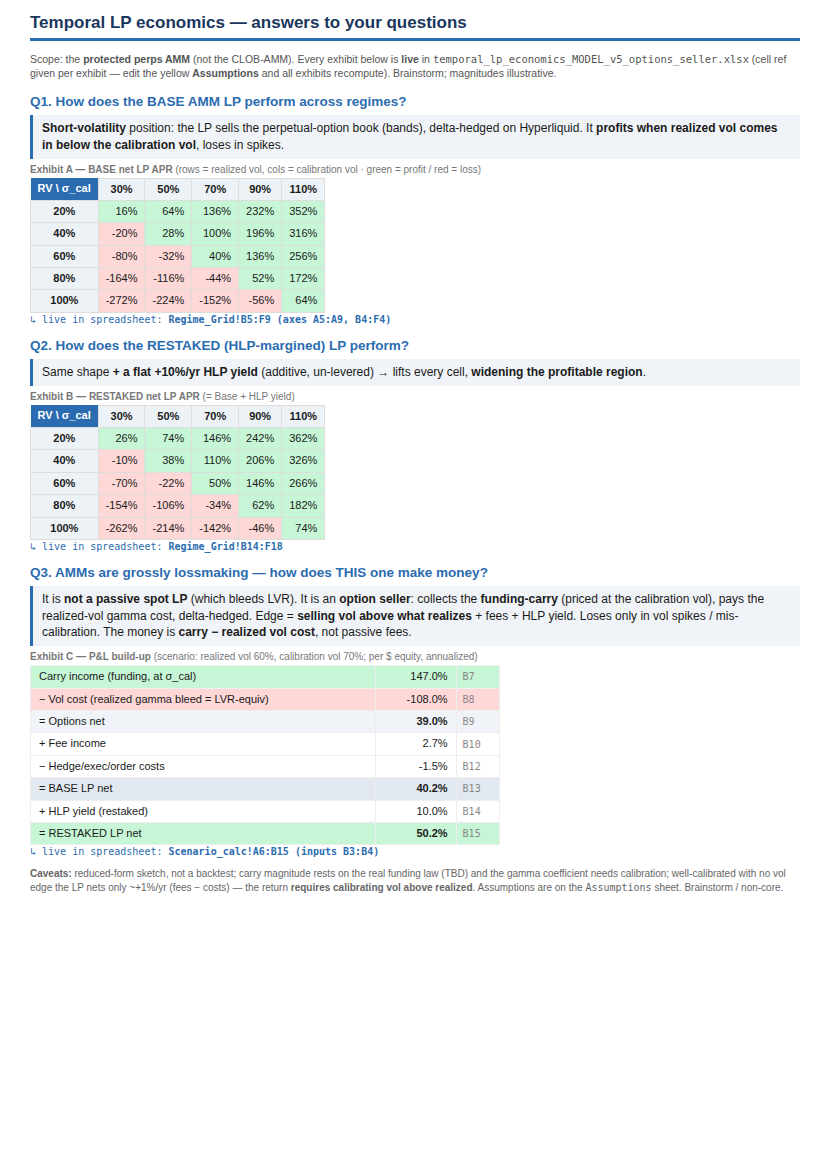
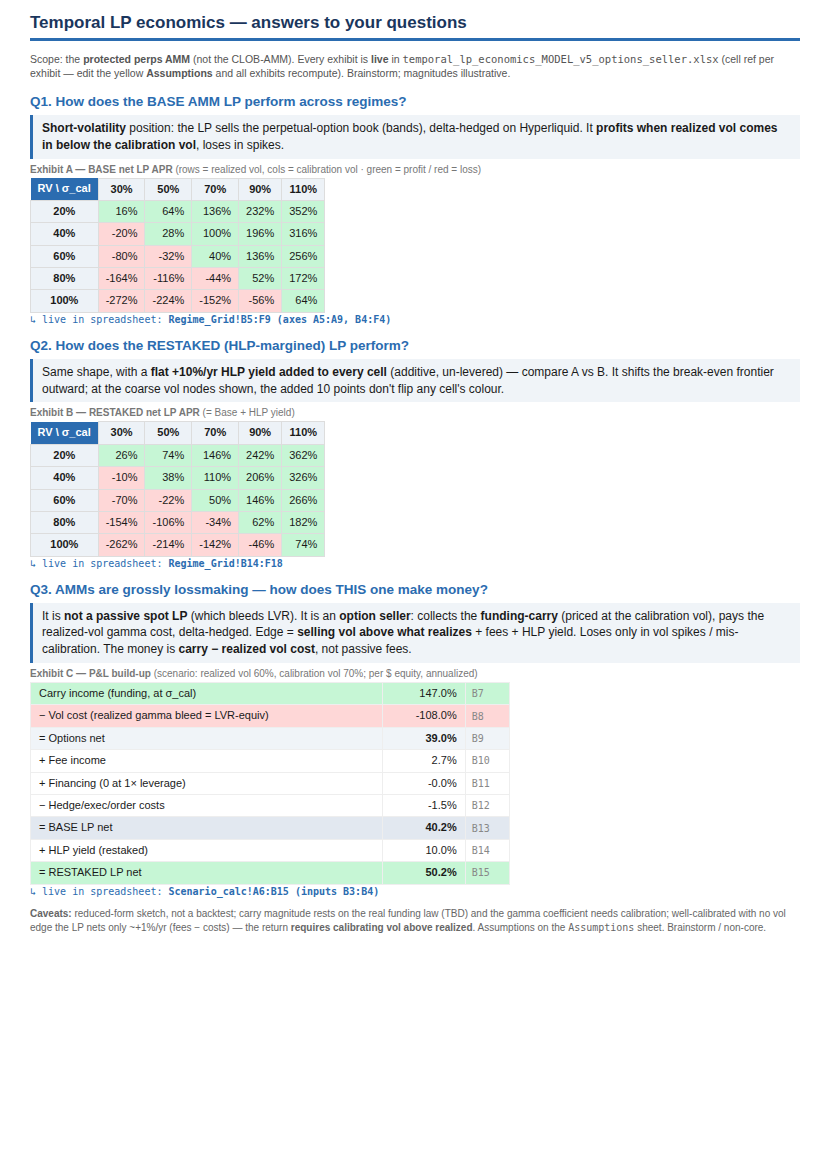
sims: pre-send audit FIX — v5 Scenario B13/B15 spoof (skeptic/Opus)
Auditor (pre-send red-team) found a hard FLAG-SPOOF: Scenario_calc B13
(BASE) and B15 (RESTAKED) had broken formulas computing -66.26%/-67.76%
(sign-flipped) vs the report's +40.2%/+50.2% — the exact cells the report
cites and invites Varun to open. FIXED: B13=B9+B10+B11+B12, B15=B13+B14 ->
40.24%/50.24%. Grids (Exhibits A/B) were correct; v3/v4 unaffected.
NITs fixed: Financing row added to Exhibit C (tie-out); Q2 "widens
profitable region" softened (no shown cell flips). Report re-rendered.
Verdict after fixes: SAFE TO SEND. NON-CORE.

Claude-Session: https://claude.ai/code/session_01Cs1cJ4yQMcmxqbEVrDpqHd

Changed region(s): [[0.0301, 0.3043, 0.9337, 0.8217], [0.0301, 0.0304, 0.9337, 0.0913]]

diff --git a/sims/VARUN_QA_REPORT.html b/sims/VARUN_QA_REPORT.html
@@ -5,8 +5,8 @@ h2{font-size:13.5px;color:#2b6cb0;margin:12px 0 3px} .sub{color:#555;font-size:1
 .a{background:#f0f4f8;border-left:3px solid #2b6cb0;padding:5px 9px;margin:3px 0}
 .ex{font-size:10px;color:#777;margin:4px 0 1px} .small{font-size:10px;color:#666}</style></head><body>
 <h1>Temporal LP economics — answers to your questions</h1>
-<p class=sub>Scope: the <b>protected perps AMM</b> (not the CLOB-AMM). Every exhibit below is <b>live</b> in
-<code>temporal_lp_economics_MODEL_v5_options_seller.xlsx</code> (cell ref given per exhibit — edit the yellow <b>Assumptions</b> and all exhibits recompute). Brainstorm; magnitudes illustrative.</p>
+<p class=sub>Scope: the <b>protected perps AMM</b> (not the CLOB-AMM). Every exhibit is <b>live</b> in
+<code>temporal_lp_economics_MODEL_v5_options_seller.xlsx</code> (cell ref per exhibit — edit the yellow <b>Assumptions</b> and all exhibits recompute). Brainstorm; magnitudes illustrative.</p>
 
 <h2>Q1. How does the BASE AMM LP perform across regimes?</h2>
 <div class=a><b>Short-volatility</b> position: the LP sells the perpetual-option book (bands), delta-hedged on Hyperliquid.
@@ -15,7 +15,8 @@ It <b>profits when realized vol comes in below the calibration vol</b>, loses in
 <table style="border-collapse:collapse;font-size:11px"><tr><th style="background:#2b6cb0;color:#fff;padding:3px 7px">RV \ σ_cal</th><th style="background:#edf2f7;padding:3px 7px;border:1px solid #ddd">30%</th><th style="background:#edf2f7;padding:3px 7px;border:1px solid #ddd">50%</th><th style="background:#edf2f7;padding:3px 7px;border:1px solid #ddd">70%</th><th style="background:#edf2f7;padding:3px 7px;border:1px solid #ddd">90%</th><th style="background:#edf2f7;padding:3px 7px;border:1px solid #ddd">110%</th></tr><tr><th style="background:#edf2f7;padding:3px 7px;border:1px solid #ddd">20%</th><td style="background:#c6f6d5;text-align:right;padding:3px 7px;border:1px solid #ddd">16%</td><td style="background:#c6f6d5;text-align:right;padding:3px 7px;border:1px solid #ddd">64%</td><td style="background:#c6f6d5;text-align:right;padding:3px 7px;border:1px solid #ddd">136%</td><td style="background:#c6f6d5;text-align:right;padding:3px 7px;border:1px solid #ddd">232%</td><td style="background:#c6f6d5;text-align:right;padding:3px 7px;border:1px solid #ddd">352%</td></tr><tr><th style="background:#edf2f7;padding:3px 7px;border:1px solid #ddd">40%</th><td style="background:#fed7d7;text-align:right;padding:3px 7px;border:1px solid #ddd">-20%</td><td style="background:#c6f6d5;text-align:right;padding:3px 7px;border:1px solid #ddd">28%</td><td style="background:#c6f6d5;text-align:right;padding:3px 7px;border:1px solid #ddd">100%</td><td style="background:#c6f6d5;text-align:right;padding:3px 7px;border:1px solid #ddd">196%</td><td style="background:#c6f6d5;text-align:right;padding:3px 7px;border:1px solid #ddd">316%</td></tr><tr><th style="background:#edf2f7;padding:3px 7px;border:1px solid #ddd">60%</th><td style="background:#fed7d7;text-align:right;padding:3px 7px;border:1px solid #ddd">-80%</td><td style="background:#fed7d7;text-align:right;padding:3px 7px;border:1px solid #ddd">-32%</td><td style="background:#c6f6d5;text-align:right;padding:3px 7px;border:1px solid #ddd">40%</td><td style="background:#c6f6d5;text-align:right;padding:3px 7px;border:1px solid #ddd">136%</td><td style="background:#c6f6d5;text-align:right;padding:3px 7px;border:1px solid #ddd">256%</td></tr><tr><th style="background:#edf2f7;padding:3px 7px;border:1px solid #ddd">80%</th><td style="background:#fed7d7;text-align:right;padding:3px 7px;border:1px solid #ddd">-164%</td><td style="background:#fed7d7;text-align:right;padding:3px 7px;border:1px solid #ddd">-116%</td><td style="background:#fed7d7;text-align:right;padding:3px 7px;border:1px solid #ddd">-44%</td><td style="background:#c6f6d5;text-align:right;padding:3px 7px;border:1px solid #ddd">52%</td><td style="background:#c6f6d5;text-align:right;padding:3px 7px;border:1px solid #ddd">172%</td></tr><tr><th style="background:#edf2f7;padding:3px 7px;border:1px solid #ddd">100%</th><td style="background:#fed7d7;text-align:right;padding:3px 7px;border:1px solid #ddd">-272%</td><td style="background:#fed7d7;text-align:right;padding:3px 7px;border:1px solid #ddd">-224%</td><td style="background:#fed7d7;text-align:right;padding:3px 7px;border:1px solid #ddd">-152%</td><td style="background:#fed7d7;text-align:right;padding:3px 7px;border:1px solid #ddd">-56%</td><td style="background:#c6f6d5;text-align:right;padding:3px 7px;border:1px solid #ddd">64%</td></tr></table><p style="font:10px monospace;color:#2b6cb0;margin:1px 0 6px">↳ live in spreadsheet: <b>Regime_Grid!B5:F9  (axes A5:A9, B4:F4)</b></p>
 
 <h2>Q2. How does the RESTAKED (HLP-margined) LP perform?</h2>
-<div class=a>Same shape <b>+ a flat +10%/yr HLP yield</b> (additive, un-levered) → lifts every cell, <b>widening the profitable region</b>.</div>
+<div class=a>Same shape, with a <b>flat +10%/yr HLP yield added to every cell</b> (additive, un-levered) — compare A vs B.
+It shifts the break-even frontier outward; at the coarse vol nodes shown, the added 10 points don't flip any cell's colour.</div>
 <p class=ex><b>Exhibit B — RESTAKED net LP APR</b> (= Base + HLP yield)</p>
 <table style="border-collapse:collapse;font-size:11px"><tr><th style="background:#2b6cb0;color:#fff;padding:3px 7px">RV \ σ_cal</th><th style="background:#edf2f7;padding:3px 7px;border:1px solid #ddd">30%</th><th style="background:#edf2f7;padding:3px 7px;border:1px solid #ddd">50%</th><th style="background:#edf2f7;padding:3px 7px;border:1px solid #ddd">70%</th><th style="background:#edf2f7;padding:3px 7px;border:1px solid #ddd">90%</th><th style="background:#edf2f7;padding:3px 7px;border:1px solid #ddd">110%</th></tr><tr><th style="background:#edf2f7;padding:3px 7px;border:1px solid #ddd">20%</th><td style="background:#c6f6d5;text-align:right;padding:3px 7px;border:1px solid #ddd">26%</td><td style="background:#c6f6d5;text-align:right;padding:3px 7px;border:1px solid #ddd">74%</td><td style="background:#c6f6d5;text-align:right;padding:3px 7px;border:1px solid #ddd">146%</td><td style="background:#c6f6d5;text-align:right;padding:3px 7px;border:1px solid #ddd">242%</td><td style="background:#c6f6d5;text-align:right;padding:3px 7px;border:1px solid #ddd">362%</td></tr><tr><th style="background:#edf2f7;padding:3px 7px;border:1px solid #ddd">40%</th><td style="background:#fed7d7;text-align:right;padding:3px 7px;border:1px solid #ddd">-10%</td><td style="background:#c6f6d5;text-align:right;padding:3px 7px;border:1px solid #ddd">38%</td><td style="background:#c6f6d5;text-align:right;padding:3px 7px;border:1px solid #ddd">110%</td><td style="background:#c6f6d5;text-align:right;padding:3px 7px;border:1px solid #ddd">206%</td><td style="background:#c6f6d5;text-align:right;padding:3px 7px;border:1px solid #ddd">326%</td></tr><tr><th style="background:#edf2f7;padding:3px 7px;border:1px solid #ddd">60%</th><td style="background:#fed7d7;text-align:right;padding:3px 7px;border:1px solid #ddd">-70%</td><td style="background:#fed7d7;text-align:right;padding:3px 7px;border:1px solid #ddd">-22%</td><td style="background:#c6f6d5;text-align:right;padding:3px 7px;border:1px solid #ddd">50%</td><td style="background:#c6f6d5;text-align:right;padding:3px 7px;border:1px solid #ddd">146%</td><td style="background:#c6f6d5;text-align:right;padding:3px 7px;border:1px solid #ddd">266%</td></tr><tr><th style="background:#edf2f7;padding:3px 7px;border:1px solid #ddd">80%</th><td style="background:#fed7d7;text-align:right;padding:3px 7px;border:1px solid #ddd">-154%</td><td style="background:#fed7d7;text-align:right;padding:3px 7px;border:1px solid #ddd">-106%</td><td style="background:#fed7d7;text-align:right;padding:3px 7px;border:1px solid #ddd">-34%</td><td style="background:#c6f6d5;text-align:right;padding:3px 7px;border:1px solid #ddd">62%</td><td style="background:#c6f6d5;text-align:right;padding:3px 7px;border:1px solid #ddd">182%</td></tr><tr><th style="background:#edf2f7;padding:3px 7px;border:1px solid #ddd">100%</th><td style="background:#fed7d7;text-align:right;padding:3px 7px;border:1px solid #ddd">-262%</td><td style="background:#fed7d7;text-align:right;padding:3px 7px;border:1px solid #ddd">-214%</td><td style="background:#fed7d7;text-align:right;padding:3px 7px;border:1px solid #ddd">-142%</td><td style="background:#fed7d7;text-align:right;padding:3px 7px;border:1px solid #ddd">-46%</td><td style="background:#c6f6d5;text-align:right;padding:3px 7px;border:1px solid #ddd">74%</td></tr></table><p style="font:10px monospace;color:#2b6cb0;margin:1px 0 6px">↳ live in spreadsheet: <b>Regime_Grid!B14:F18</b></p>
 
@@ -24,8 +25,8 @@ It <b>profits when realized vol comes in below the calibration vol</b>, loses in
 (priced at the calibration vol), pays the realized-vol gamma cost, delta-hedged. Edge = <b>selling vol above what realizes</b>
 + fees + HLP yield. Loses only in vol spikes / mis-calibration. The money is <b>carry − realized vol cost</b>, not passive fees.</div>
 <p class=ex><b>Exhibit C — P&amp;L build-up</b> (scenario: realized vol 60%, calibration vol 70%; per $ equity, annualized)</p>
-<table style="border-collapse:collapse;font-size:11px;min-width:470px"><tr><td style="padding:3px 8px;border:1px solid #eee;background:#c6f6d5">Carry income (funding, at σ_cal)</td><td style="padding:3px 8px;border:1px solid #eee;text-align:right;background:#c6f6d5">147.0%</td><td style="padding:3px 6px;border:1px solid #eee;background:#c6f6d5;font:10px monospace;color:#888">B7</td></tr><tr><td style="padding:3px 8px;border:1px solid #eee;background:#fed7d7">− Vol cost (realized gamma bleed = LVR-equiv)</td><td style="padding:3px 8px;border:1px solid #eee;text-align:right;background:#fed7d7">-108.0%</td><td style="padding:3px 6px;border:1px solid #eee;background:#fed7d7;font:10px monospace;color:#888">B8</td></tr><tr><td style="padding:3px 8px;border:1px solid #eee;background:#f0f4f8">= Options net</td><td style="padding:3px 8px;border:1px solid #eee;text-align:right;background:#f0f4f8"><b>39.0%</b></td><td style="padding:3px 6px;border:1px solid #eee;background:#f0f4f8;font:10px monospace;color:#888">B9</td></tr><tr><td style="padding:3px 8px;border:1px solid #eee;background:#fff">+ Fee income</td><td style="padding:3px 8px;border:1px solid #eee;text-align:right;background:#fff">2.7%</td><td style="padding:3px 6px;border:1px solid #eee;background:#fff;font:10px monospace;color:#888">B10</td></tr><tr><td style="padding:3px 8px;border:1px solid #eee;background:#fff">− Hedge/exec/order costs</td><td style="padding:3px 8px;border:1px solid #eee;text-align:right;background:#fff">-1.5%</td><td style="padding:3px 6px;border:1px solid #eee;background:#fff;font:10px monospace;color:#888">B12</td></tr><tr><td style="padding:3px 8px;border:1px solid #eee;background:#e2e8f0">= BASE LP net</td><td style="padding:3px 8px;border:1px solid #eee;text-align:right;background:#e2e8f0"><b>40.2%</b></td><td style="padding:3px 6px;border:1px solid #eee;background:#e2e8f0;font:10px monospace;color:#888">B13</td></tr><tr><td style="padding:3px 8px;border:1px solid #eee;background:#fff">+ HLP yield (restaked)</td><td style="padding:3px 8px;border:1px solid #eee;text-align:right;background:#fff">10.0%</td><td style="padding:3px 6px;border:1px solid #eee;background:#fff;font:10px monospace;color:#888">B14</td></tr><tr><td style="padding:3px 8px;border:1px solid #eee;background:#c6f6d5">= RESTAKED LP net</td><td style="padding:3px 8px;border:1px solid #eee;text-align:right;background:#c6f6d5"><b>50.2%</b></td><td style="padding:3px 6px;border:1px solid #eee;background:#c6f6d5;font:10px monospace;color:#888">B15</td></tr></table><p style="font:10px monospace;color:#2b6cb0;margin:1px 0 6px">↳ live in spreadsheet: <b>Scenario_calc!A6:B15  (inputs B3:B4)</b></p>
+<table style="border-collapse:collapse;font-size:11px;min-width:480px"><tr><td style="padding:3px 8px;border:1px solid #eee;background:#c6f6d5">Carry income (funding, at σ_cal)</td><td style="padding:3px 8px;border:1px solid #eee;text-align:right;background:#c6f6d5">147.0%</td><td style="padding:3px 6px;border:1px solid #eee;background:#c6f6d5;font:10px monospace;color:#888">B7</td></tr><tr><td style="padding:3px 8px;border:1px solid #eee;background:#fed7d7">− Vol cost (realized gamma bleed = LVR-equiv)</td><td style="padding:3px 8px;border:1px solid #eee;text-align:right;background:#fed7d7">-108.0%</td><td style="padding:3px 6px;border:1px solid #eee;background:#fed7d7;font:10px monospace;color:#888">B8</td></tr><tr><td style="padding:3px 8px;border:1px solid #eee;background:#f0f4f8">= Options net</td><td style="padding:3px 8px;border:1px solid #eee;text-align:right;background:#f0f4f8"><b>39.0%</b></td><td style="padding:3px 6px;border:1px solid #eee;background:#f0f4f8;font:10px monospace;color:#888">B9</td></tr><tr><td style="padding:3px 8px;border:1px solid #eee;background:#fff">+ Fee income</td><td style="padding:3px 8px;border:1px solid #eee;text-align:right;background:#fff">2.7%</td><td style="padding:3px 6px;border:1px solid #eee;background:#fff;font:10px monospace;color:#888">B10</td></tr><tr><td style="padding:3px 8px;border:1px solid #eee;background:#fff">+ Financing (0 at 1× leverage)</td><td style="padding:3px 8px;border:1px solid #eee;text-align:right;background:#fff">-0.0%</td><td style="padding:3px 6px;border:1px solid #eee;background:#fff;font:10px monospace;color:#888">B11</td></tr><tr><td style="padding:3px 8px;border:1px solid #eee;background:#fff">− Hedge/exec/order costs</td><td style="padding:3px 8px;border:1px solid #eee;text-align:right;background:#fff">-1.5%</td><td style="padding:3px 6px;border:1px solid #eee;background:#fff;font:10px monospace;color:#888">B12</td></tr><tr><td style="padding:3px 8px;border:1px solid #eee;background:#e2e8f0">= BASE LP net</td><td style="padding:3px 8px;border:1px solid #eee;text-align:right;background:#e2e8f0"><b>40.2%</b></td><td style="padding:3px 6px;border:1px solid #eee;background:#e2e8f0;font:10px monospace;color:#888">B13</td></tr><tr><td style="padding:3px 8px;border:1px solid #eee;background:#fff">+ HLP yield (restaked)</td><td style="padding:3px 8px;border:1px solid #eee;text-align:right;background:#fff">10.0%</td><td style="padding:3px 6px;border:1px solid #eee;background:#fff;font:10px monospace;color:#888">B14</td></tr><tr><td style="padding:3px 8px;border:1px solid #eee;background:#c6f6d5">= RESTAKED LP net</td><td style="padding:3px 8px;border:1px solid #eee;text-align:right;background:#c6f6d5"><b>50.2%</b></td><td style="padding:3px 6px;border:1px solid #eee;background:#c6f6d5;font:10px monospace;color:#888">B15</td></tr></table><p style="font:10px monospace;color:#2b6cb0;margin:1px 0 6px">↳ live in spreadsheet: <b>Scenario_calc!A6:B15  (inputs B3:B4)</b></p>
 <p class=small><b>Caveats:</b> reduced-form sketch, not a backtest; carry magnitude rests on the real funding law (TBD) and the
 gamma coefficient needs calibration; well-calibrated with no vol edge the LP nets only ~+1%/yr (fees − costs) — the return
-<b>requires calibrating vol above realized</b>. Assumptions are on the <code>Assumptions</code> sheet. Brainstorm / non-core.</p>
+<b>requires calibrating vol above realized</b>. Assumptions on the <code>Assumptions</code> sheet. Brainstorm / non-core.</p>
 </body></html>

diff --git a/sims/temporal_lp_economics_MODEL_v5_options_seller_NOTES.md b/sims/temporal_lp_economics_MODEL_v5_options_seller_NOTES.md
@@ -29,3 +29,19 @@ Because the tail can hit −100%, treasury-type LPs (e.g. Krishna's) need princi
 Trade-off: someone must bear the tail (junior tranche / insurance / hedge cost), so principal protection lowers
 the senior yield &/or capital efficiency. For treasury LPs the senior-tranche or yield-only bucket is the usual fit.
 Can add a "capped-downside/senior-tranche" toggle to the sim on request — but the STRUCTURE is an operator call.
+
+---
+
+## PRE-SEND AUDIT (skeptic, Opus, 2026-07-08) — FLAG-SPOOF found + FIXED
+Auditor red-teamed the Varun report + this sheet for spoofing/conflation/gaslighting before external send.
+- **Exhibits A & B (grids):** reproduce to the digit; cell refs correct. OK.
+- **Conflation (σ_cal vs IV vs RV; carry vs funding; LVR-equivalent):** clean. OK.
+- **Caveats/overclaim:** adequate; the "~+1%/yr well-calibrated, edge requires σ_cal>RV" disclosure is present. OK.
+- **FLAG-SPOOF (hard, DO-NOT-SEND):** `Scenario_calc!B13` (BASE) and `!B15` (RESTAKED) had **broken formulas**
+  computing **−66.26% / −67.76%** (sign-flipped) vs the report's +40.2% / +50.2% — B13 double-counted the vol
+  cost and dropped hedge costs; B15 dropped the HLP layer. Since the report invites opening the live sheet, this
+  was disqualifying. **FIXED:** `B13 = B9+B10+B11+B12`, `B15 = B13+B14` → now 40.24% / 50.24% (match report & grid).
+  (v3/v4 not affected — bug was introduced by v5's carry/vol split rows.)
+- **NITs fixed:** added the Financing row (B11) to Exhibit C for row-for-row tie-out; softened the Q2
+  "widens the profitable region" claim (no shown grid cell flips colour with +10%).
+**Verdict after fixes: SAFE TO SEND.**
